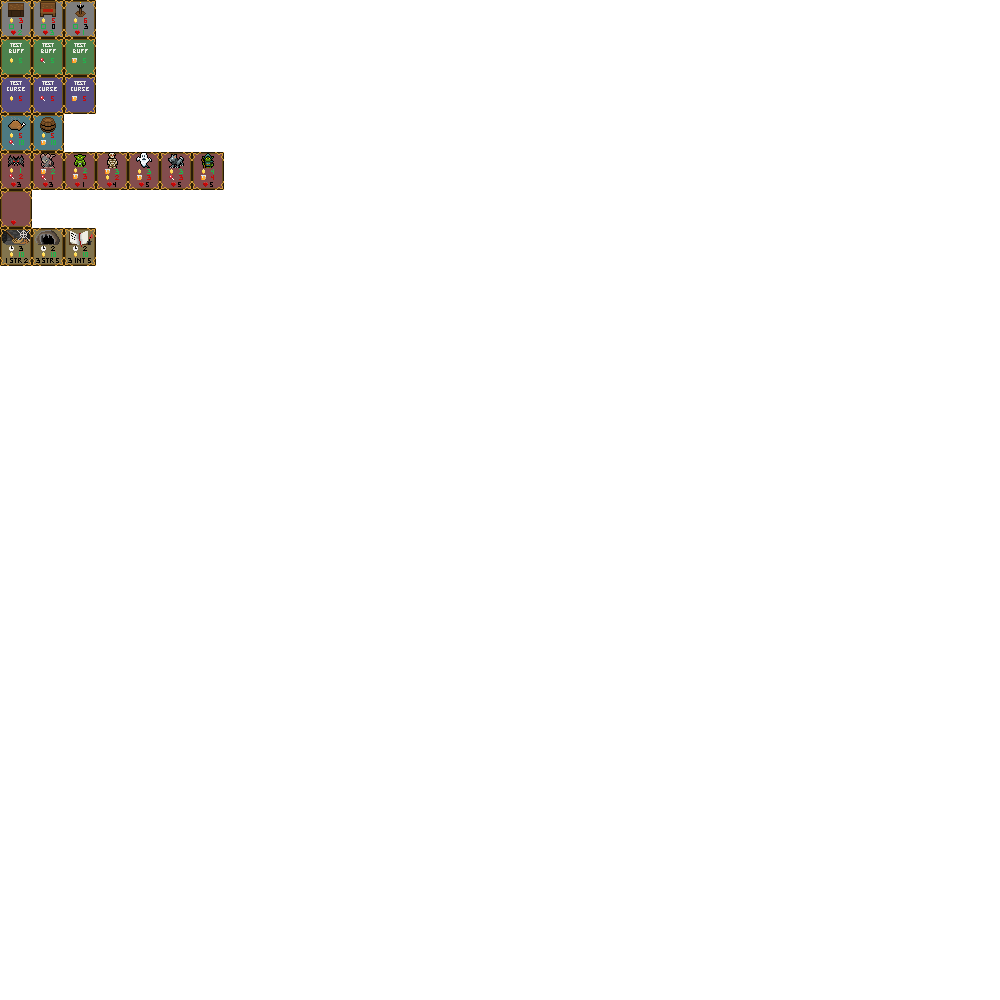
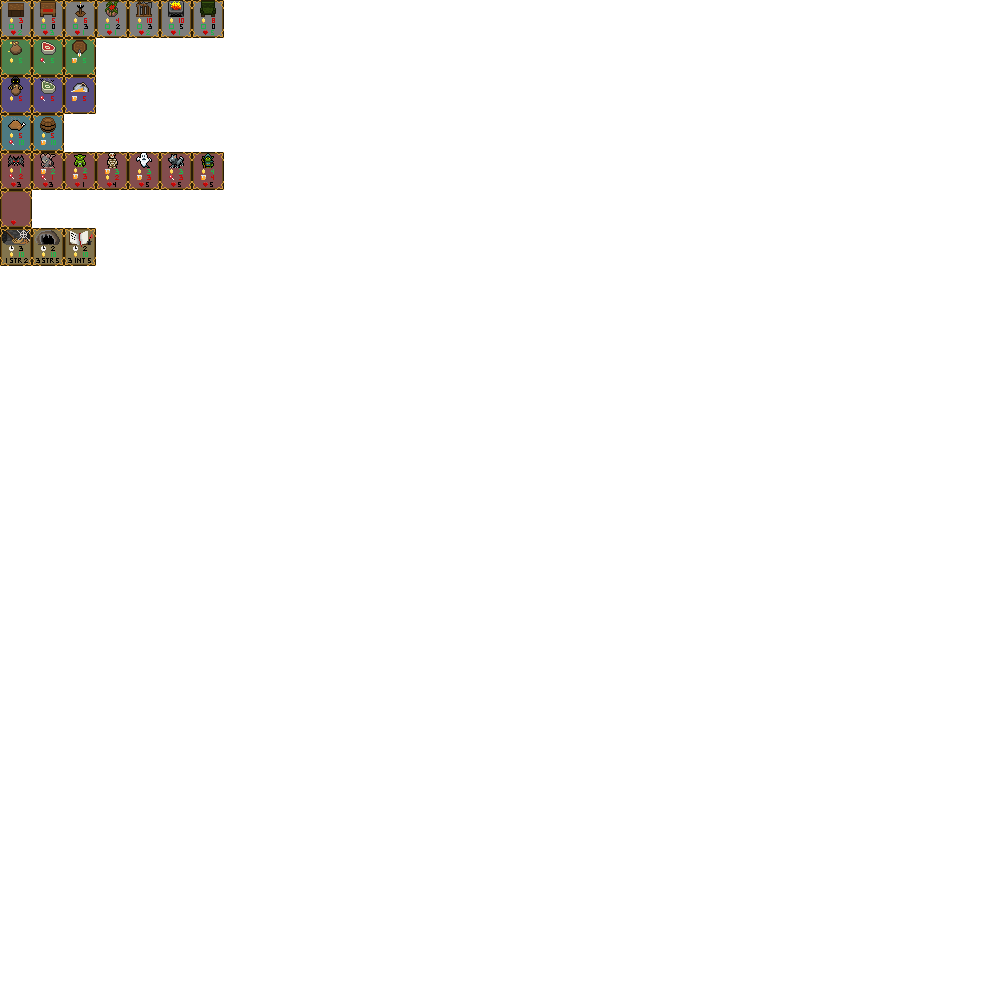
More Objects and Updated Curse/Buff Cards

Changed region(s): [[0.0, 0.0, 0.248, 0.093]]

diff --git a/db.js b/db.js
@@ -1,7 +1,11 @@
 var OBJECTSPRITES = {
     "counter" : new Vector2D(0, 0),
     "chair" : new Vector2D(1, 0),
-    "candle" : new Vector2D(2, 0)
+    "candle" : new Vector2D(2, 0),
+    "flowerpot" : new Vector2D(3,0),
+    "weaponrack" : new Vector2D(4,0),
+    "firepit" : new Vector2D(5,0),
+    "lazboy" : new Vector2D(6,0)
 }
 
 var BUFFCURSESPRITES = {
@@ -141,6 +145,18 @@ class Database
         this.objectCards.push(new ObjectCard(OBJECTSPRITES["candle"].x, OBJECTSPRITES["candle"].y,
                                             OBJECTSPRITES["candle"].x, OBJECTSPRITES["candle"].y, 1, 3, false, -1,
                                             new ResourceUpkeep(this.gold, -6)));
+        this.objectCards.push(new ObjectCard(OBJECTSPRITES["flowerpot"].x, OBJECTSPRITES["flowerpot"].y,
+                                            OBJECTSPRITES["flowerpot"].x, OBJECTSPRITES["flowerpot"].y, 1, 2, false, -1,
+                                            new ResourceUpkeep(this.gold, -4)));
+        this.objectCards.push(new ObjectCard(OBJECTSPRITES["weaponrack"].x, OBJECTSPRITES["weaponrack"].y,
+                                            OBJECTSPRITES["weaponrack"].x, OBJECTSPRITES["weaponrack"].y, 2, 3, false, -1,
+                                            new ResourceUpkeep(this.gold, -10)));
+        this.objectCards.push(new ObjectCard(OBJECTSPRITES["firepit"].x, OBJECTSPRITES["firepit"].y,
+                                            OBJECTSPRITES["firepit"].x, OBJECTSPRITES["firepit"].y, 1, 5, false, -1,
+                                            new ResourceUpkeep(this.gold, -10)));
+        this.objectCards.push(new ObjectCard(OBJECTSPRITES["lazboy"].x, OBJECTSPRITES["lazboy"].y,
+                                            OBJECTSPRITES["lazboy"].x, OBJECTSPRITES["lazboy"].y, 5, 0, false, -1,
+                                            new ResourceUpkeep(this.gold, -8)));
     }
 
     LoadBuffCards()
